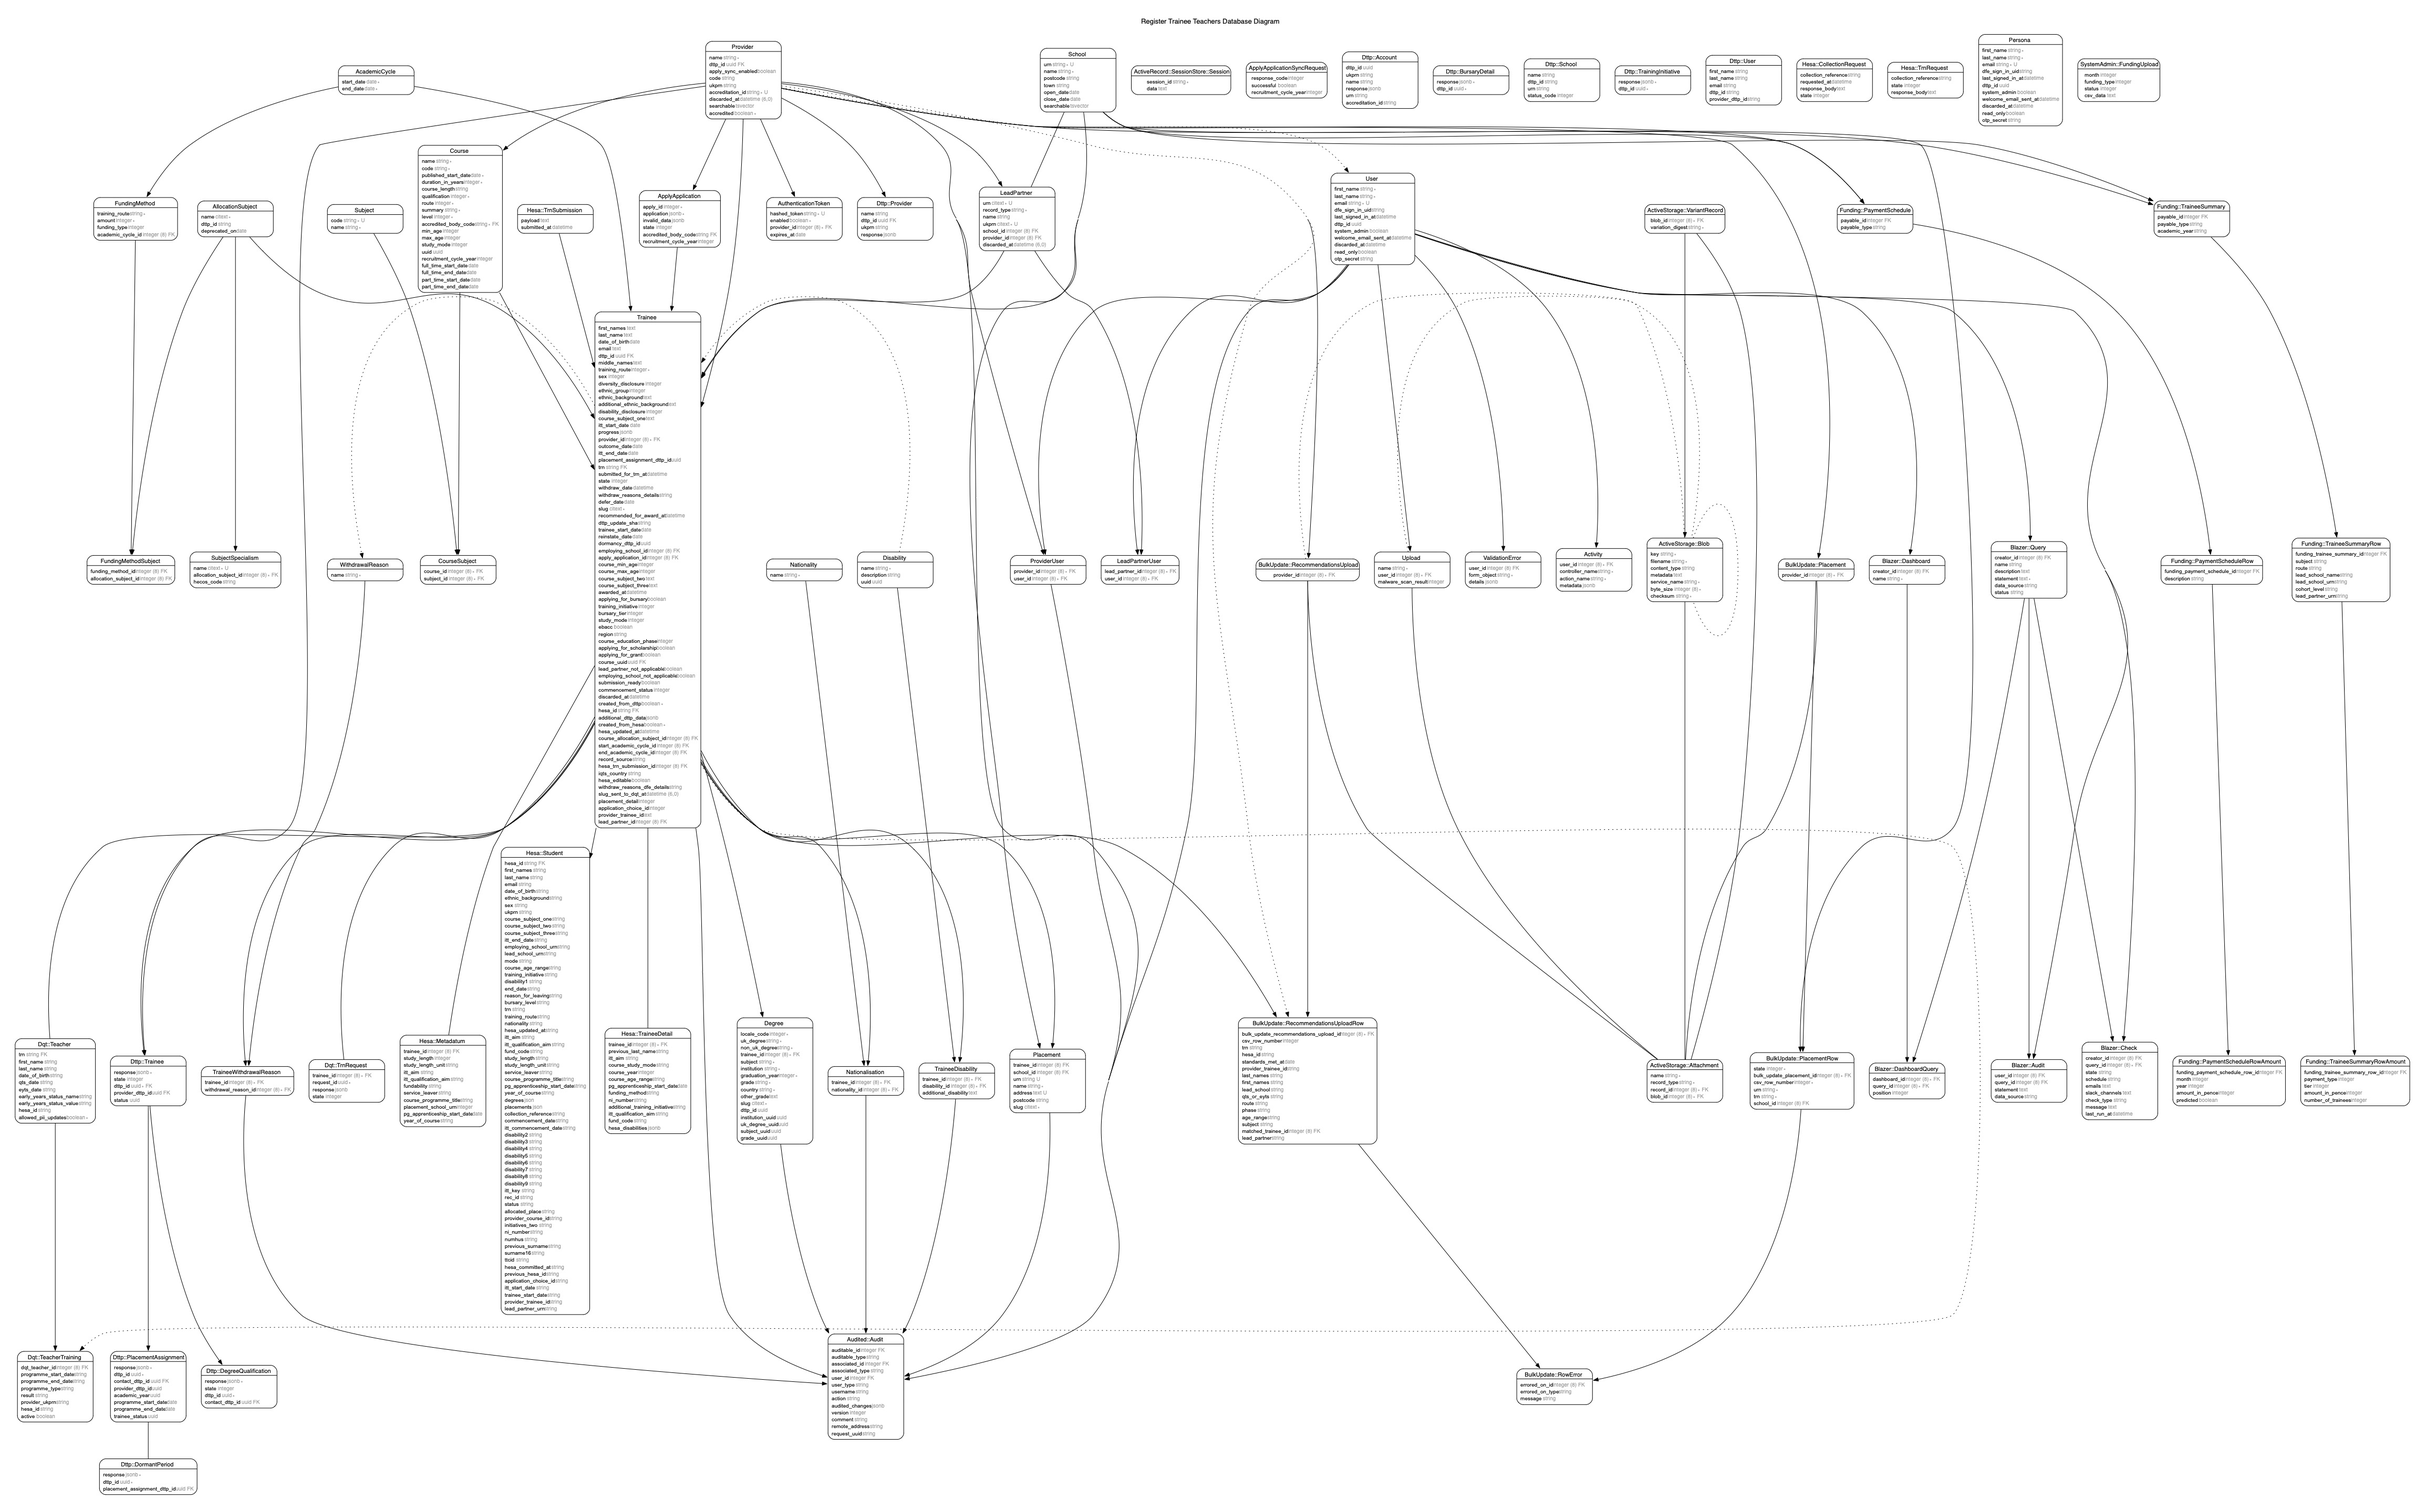
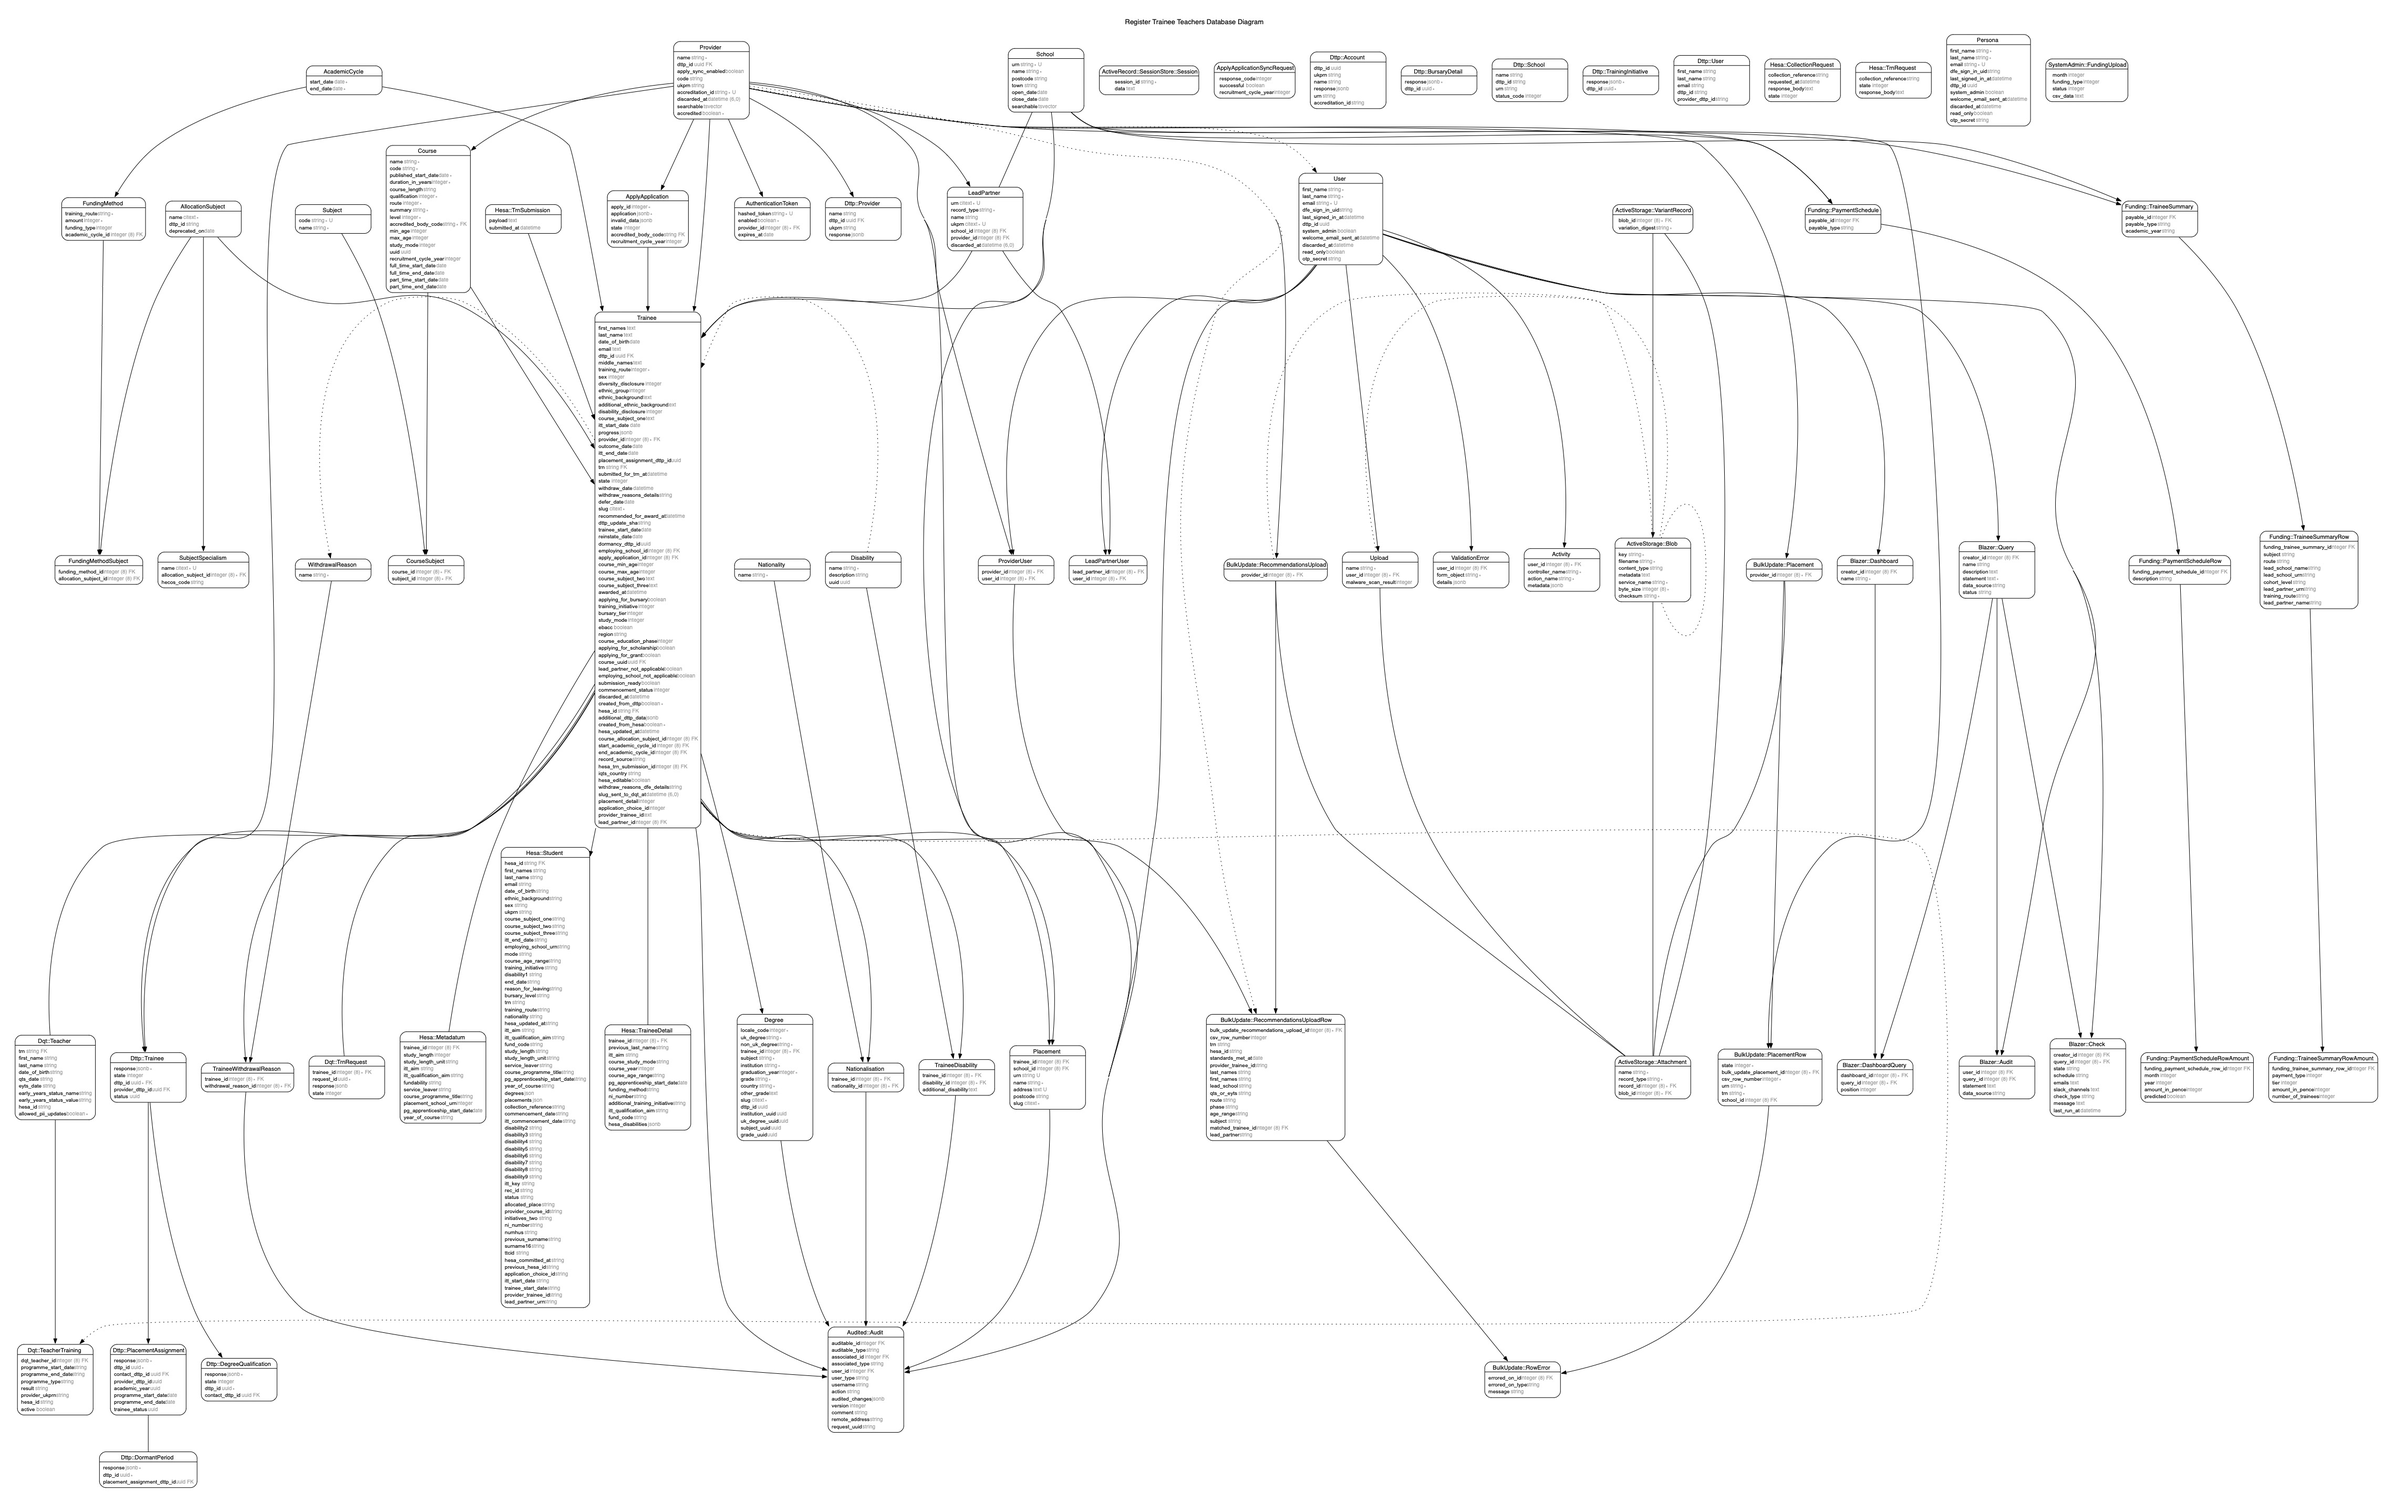
Drop lead school urn from hesa student

diff --git a/db/schema.rb b/db/schema.rb
@@ -10,7 +10,7 @@
 #
 # It's strongly recommended that you check this file into your version control system.
 
-ActiveRecord::Schema[7.2].define(version: 2024_09_06_090304) do
+ActiveRecord::Schema[7.2].define(version: 2024_09_12_135058) do
   # These are extensions that must be enabled in order to support this database
   enable_extension "btree_gist"
   enable_extension "citext"
@@ -601,7 +601,6 @@ ActiveRecord::Schema[7.2].define(version: 2024_09_06_090304) do
     t.string "course_subject_three"
     t.string "itt_end_date"
     t.string "employing_school_urn"
-    t.string "lead_school_urn"
     t.string "mode"
     t.string "course_age_range"
     t.string "training_initiative"
@@ -649,10 +648,10 @@ ActiveRecord::Schema[7.2].define(version: 2024_09_06_090304) do
     t.string "surname16"
     t.string "ttcid"
     t.string "hesa_committed_at"
+    t.string "previous_hesa_id"
     t.string "application_choice_id"
     t.string "itt_start_date"
     t.string "trainee_start_date"
-    t.string "previous_hesa_id"
     t.string "provider_trainee_id"
     t.string "lead_partner_urn"
     t.index ["hesa_id", "rec_id"], name: "index_hesa_students_on_hesa_id_and_rec_id", unique: true

diff --git a/app/models/hesa/student.rb b/app/models/hesa/student.rb
@@ -42,7 +42,6 @@
 #  itt_start_date               :string
 #  last_name                    :string
 #  lead_partner_urn             :string
-#  lead_school_urn              :string
 #  mode                         :string
 #  nationality                  :string
 #  ni_number                    :string
@@ -79,10 +78,6 @@
 #
 module Hesa
   class Student < ApplicationRecord
-    include LeadSchoolMigratable
-
-    set_lead_columns :lead_school_urn, :lead_partner_urn
-
     self.table_name = "hesa_students"
     self.ignored_columns += %w[student_instance_id]
 

diff --git a/app/models/funding/trainee_summary_row.rb b/app/models/funding/trainee_summary_row.rb
@@ -6,6 +6,7 @@
 #
 #  id                         :bigint           not null, primary key
 #  cohort_level               :string
+#  lead_partner_name          :string
 #  lead_partner_urn           :string
 #  lead_school_name           :string
 #  lead_school_urn            :string

diff --git a/db/migrate/20240912135058_drop_lead_school_urn_from_hesa_student.rb b/db/migrate/20240912135058_drop_lead_school_urn_from_hesa_student.rb
@@ -1,0 +1,5 @@
+class DropLeadSchoolUrnFromHesaStudent < ActiveRecord::Migration[7.2]
+  def change
+    safety_assured { remove_column :hesa_students, :lead_school_urn, :string }
+  end
+end
